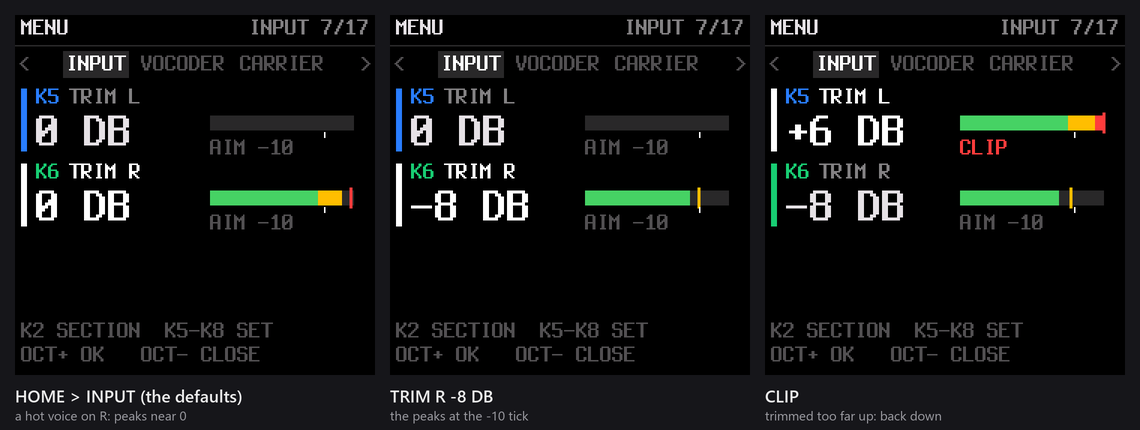
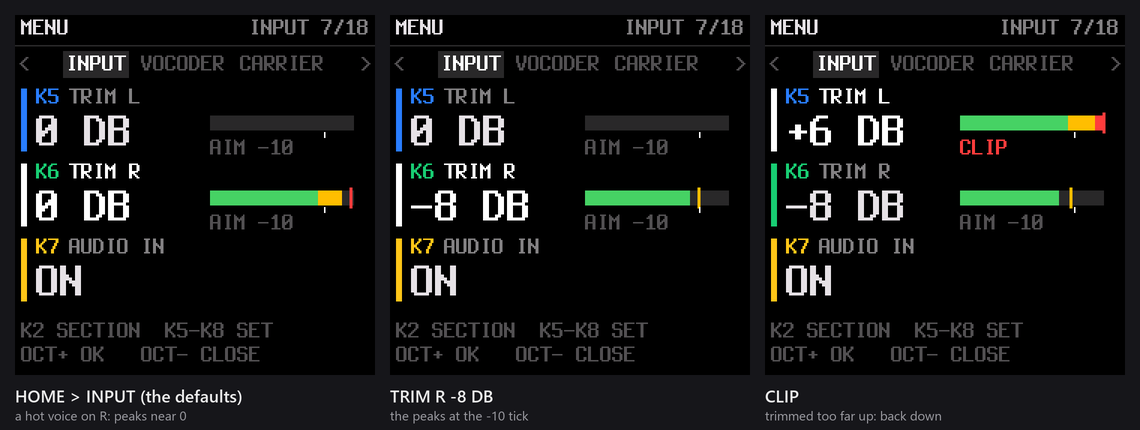
docs(harmoniser): screens for Stage 1c (SETUP with HARMONY on, the amber reasons; USB > STEREO PAIR, MODE locked, INPUT > AUDIO IN); FADER BANK without pin or time-out throughout; REPEAT's memory 0.32 s; Part B's note on the lanes; AUDIO IN under INPUT in the README

diff --git a/HARMONISER.md b/HARMONISER.md
@@ -26,7 +26,7 @@ moving at the pitch ratio, spliced every segment, with feedback and REPEAT. Its 
 
 ### A1. Getting started
 
-![HOME > HARMONY with the harmoniser on; HOME > SETUP with IN R sent to the harmoniser; INTERVALS: SCALE with the sung note](assets/screens/smk37-harm-menu.png)
+![HOME > HARMONY with the harmoniser on; HOME > SETUP with HARMONY on (T3 on its lane, IN R to the harmoniser); amber choices with their reason; INTERVALS: SCALE with the sung note](assets/screens/smk37-harm-menu.png)
 
 1. **The audio in:** set up the USB audio in as for the vocoder ([VOCODER.md, Getting sound in](VOCODER.md#1-getting-sound-in),
    steps 1-3: **HOME > INPUT > AUDIO IN: ON**).
@@ -128,7 +128,7 @@ banks while it is up. Its LED is lit while it is up.
 - **FEEDBACK** (bank E, F2): see [A4](#a4-the-faders-banks-e-and-f-and-pickup). At low settings it thickens the
   harmony with a short shimmer; high up it turns a held chord into rising (or falling) arpeggios of itself. The EQ in
   the loop is flat in this build (the H949's LOW / HIGH EQ is Stage 2).
-- **REPEAT**: select T1 and press **NOTE REPEAT**. The memory (about 0.4 s of what the harmoniser heard) is caught and
+- **REPEAT**: select T1 and press **NOTE REPEAT**. The memory (about 0.32 s of what the harmoniser heard, each lane its own) is caught and
   plays round and round, the input cut off, as the H949's REPEAT button did. The voices still play it at their
   intervals, so keys and PITCH reharmonise the loop.
   - **A tap latches it**: the NOTE REPEAT LED and **REP** in the header **flash**; tap again to let it go.
@@ -186,12 +186,16 @@ the USB layout:
   three harmonised kits, one per interval, mixable apart.
 - **DRUMS+RET:** the same, V1 with KICK, V2 with SNARE, V3 with HATS; PERC stays dry.
 
+![USB > STEREO PAIR = DRUMS (the return mono on channel 4); VOCODER > MODE locked to AUDIO while HARMONY is on; INPUT > AUDIO IN, moved from USB](assets/screens/smk37-harm-routing.png)
+
 **HOME > USB > STEREO PAIR** (SYNTHS+RET; kept): **RET** (default: the effects return on channels 5-6, as before),
 **DRUMS**, **T1**, **T2** or **T3**. The chosen source goes out **in stereo** on channels 5-6 (a track after its pan,
 with its lane's voices at their pans; the drums at their sounds' pans), and the effects return goes out **mono** in the
 channel the source left (PAIR = DRUMS: SYN 1, SYN 2, SYN 3, **RET**, **DRUMS L**, **DRUMS R**). Your DAW sees the new
 channel names at the next plug. With STEM FX on, the drums' punch-ins work on the mono kit: PAIR = DRUMS then carries
 the punched kit centred, with the lane's voices still at their pans.
+Beside the value the screen says where the return went (**RET MONO / ON CH 4** for DRUMS), or, in another USB
+layout, **NEEDS SYNTHS+RET** in amber.
 
 **The voices' pans** (G3: K5 SPREAD, K6 PAN, [A11](#a11-the-harmony-page-the-h949s-panel)) place each lane's harmony
 across the stereo field: SPREAD sends V1 left and V3 right, with V2 in the middle. The drums, which mostly run wet, get
@@ -401,7 +405,7 @@ harmoniser (bank F), the SMK-37 becomes a dub instrument. Three things make it w
   colour more than as chords: an octave down darkens a hit, a fifth or a ninth turns it into a tuned tone, and PITCH
   sweeps all three voices at once. The H949's formant shift (the introduction) is part of the sound here.
 - **The faders keep both hands free.** Bank E (PITCH, FEEDBACK, VOICE IN, WET / DRY) and bank F (the lanes) are one
-  move each. Pin the bank (FADER BANK held) and pickup keeps the jumps out (A4).
+  move each. The FADER BANK screen stays up until you close it, and pickup keeps the jumps out (A4).
 
 **The stem punch-ins, as heard through the harmoniser:**
 
@@ -456,9 +460,9 @@ menu, another page.
 - **The faders keep the page on screen.** Move one and the header says what it did, as the FADER BANK screen would:
   `PITCH +3.5 ST`, `FEEDBACK 38 %`, `T2 LANE 50 %`. The readout follows PITCH as you move it. A fader still waiting
   to pick up says which way to go: `PITCH MOVE UP` / `MOVE DOWN`.
-- **The FADER BANK button** still shows the bank screen (all four faders, the pickup arrows; tap for the next bank,
-  hold to pin it). When it closes, **the page comes back**; so it does after the pad picker.
-- On the vocoder page a fader shows the FADER BANK screen for a moment, and the page comes back after it.
+- **The FADER BANK button** still shows the bank screen (all four faders, the pickup arrows; < > for the next bank, a
+  tap of FADER BANK closes it). When it closes, **the page comes back**; so it does after the pad picker.
+- On the vocoder page a fader brings the FADER BANK screen up; tap FADER BANK and the page comes back.
 
 **The pads' lights** (each group's in the sheet above, as the page lights them):
 - **G1:** a pad in use lit in its voice's colour (V1 orange, V2 cyan, V3 violet), brighter with its level; **white**
@@ -583,6 +587,11 @@ record the intervals from the keys.
 > early, in Stage 1b); Stage 3
 > MIDI out of the harmony. Where Part A and Part B differ, Part A is what the build does: in Part B, "HOME > HARMONY >
 > TRACK" is gone (the harmoniser is always T1), PITCH and FEEDBACK are on bank E, and the keys are chromatic.
+>
+> **Stage 1c changed the routing below:** there are no HARM sends into one input any more. Each track sent has its own
+> **lane** (its own memory of **320 ms**, not 400, and its own feedback), set by **bank F (LANE)**, and comes out on its
+> own channel ([A6](#a6-the-lanes-the-harmoniser-across-each-track-and-the-outputs)). AUDIO IN is under **HOME >
+> INPUT**. The diagrams and lengths in this part are the original design.
 
 ### 1. Getting started
 

diff --git a/SMK37.md b/SMK37.md
@@ -178,7 +178,7 @@ the screen names them), OCT+ steps the row under the cursor; SEQ PLAY and SEQ RE
 | USB | USB LAYOUT | K5 | STEREO (default): the USB audio input as on the FM-1. DRUMS+RET, SYNTHS+RET, ALL DRY: [stems](#usb-audio-stems) for a DAW. A moment after the knob stops the keyboard re-plugs itself on USB (~1 s; RE-PLUG shows meanwhile) |
 | USB | STEM RATE | K6 | with a stem layout: 48 KHZ (default; resampled on the keyboard) or 44.1 KHZ (the lightest: the engines' own samples, the computer converts); **48 / 16 BIT** or **44.1 / 16**: 16-bit stems for a single-TT USB hub (about 78 dB below a full stem; with AUDIO IN, 24-bit stems do not fit such a hub's budget). Re-plugs as USB LAYOUT |
 | USB | STEM FILTER | K7 | at 48 KHZ: FULL (default; 12 taps, the cleanest top end) or LIGHT (8 taps, a third less of the stems' resampling, for busy patterns: −1.3 dB at 14 kHz, −2.8 dB at 16 kHz). At once |
-| USB | STEREO PAIR | K8 | with SYNTHS+RET (the harmoniser build): channels 5-6 RET (default: the effects return, as before), DRUMS, T1, T2 or T3: that source in stereo (a track after its pan, the drums at their sounds' pans), the effects return mono in the channel it left (DRUMS: SYN 1, SYN 2, SYN 3, RET, DRUMS L, DRUMS R). Amber in the other layouts. The DAW's channel names at the next plug. Kept. (AUDIO IN, the vocoder build's, is under INPUT) |
+| USB | STEREO PAIR | K8 | with SYNTHS+RET (the harmoniser build): channels 5-6 RET (default: the effects return, as before), DRUMS, T1, T2 or T3: that source in stereo (a track after its pan, the drums at their sounds' pans), the effects return mono in the channel it left (DRUMS: SYN 1, SYN 2, SYN 3, RET, DRUMS L, DRUMS R). Beside it: RET MONO / ON CH n (where the return went); amber, NEEDS SYNTHS+RET, in the other layouts. The DAW's channel names at the next plug. Kept. (AUDIO IN, the vocoder build's, is under INPUT) |
 | PUNCH | STEM FX | K5 | with a stem layout: SLICER (default; each track's SLICER STUT, the punch-ins on the master only), PUNCH or PUNCH HQ (the rhythmic punch-ins on every stem; [below](#usb-audio-stems)). At once |
 | PUNCH | FADE | K6 | the punch-ins' fade in and out, 0 (default, the shortest) .. 15: the same setting as SELECT on the FX page (shown large at its top right). OCT+ back to 0 |
 | PUNCH | XFADE | K7 | with STEM FX: the shortest stitch on the stems (a punch in or out), 1.5 / 2.9 (default) / 5.8 MS; FADE makes it longer. At once |

diff --git a/VOCODER.md b/VOCODER.md
@@ -241,7 +241,7 @@ flowchart LR
 
 ### 2.6 INPUT: each side's level
 
-![HOME > INPUT: TRIM L and TRIM R, each with its meter; the tick at -10 dBFS](assets/screens/smk37-voc-input.png)
+![HOME > INPUT: TRIM L and TRIM R, each with its meter, the tick at -10 dBFS; AUDIO IN below them](assets/screens/smk37-voc-input.png)
 
 **HOME > INPUT** has **TRIM L** and **TRIM R**: each side's level before it goes anywhere, −18 .. +6 dB in 1 dB steps
 (0 dB: as it comes, the default), kept with the unit. Beside each, its **meter**: the level after the trim on a −48 .. 0
@@ -250,6 +250,8 @@ The small tick marks **−10 dBFS**: aim your voice's loud peaks there (AIM −1
 
 - A voice that comes in hot (peaks near 0 dBFS) makes the vocoder harsh: trim it down until the peaks sit near the tick.
 - A quiet source: trim it up. Above 0 dB the trim can clip a loud source: watch for CLIP.
+- Below the trims: **AUDIO IN** (OFF, ON, TEST), the switch from [Getting sound in](#1-getting-sound-in) (dim while no audio
+  arrives from the computer).
 - AUTOCONTROL (the vocoder page) then keeps the level steady from there.
 
 ## 3. The menus (HOME menu, PATCH held)

diff --git a/.github/README.md b/.github/README.md
@@ -43,7 +43,7 @@ NOISE engines. Need them? Use [Multichannel USB audio](https://github.com/MiloMe
 1. Back up the keyboard's flash ([how](/SMK37.md#install)) and your projects (the editor's Backup).
 2. [Install](https://milomeowzers.github.io/sloop-smk37/mewcoder/webapp/installer/) (Chrome or Edge, over USB).
 3. On the computer, send your microphone to the SMK-37's audio output (peaks around −10 dBFS).
-4. HOME > USB > **AUDIO IN: ON**, HOME > VOCODER > **MODE: VOCODER**, select track 3, play chords and speak.
+4. HOME > INPUT > **AUDIO IN: ON**, HOME > VOCODER > **MODE: VOCODER**, select track 3, play chords and speak.
 5. A mono mic on one side: HOME > SETUP > **IN R: OFF** (or IN L), for its full level. HOME > **INPUT** shows each
    side's level: trim your voice until its peaks sit near the −10 tick.
 
